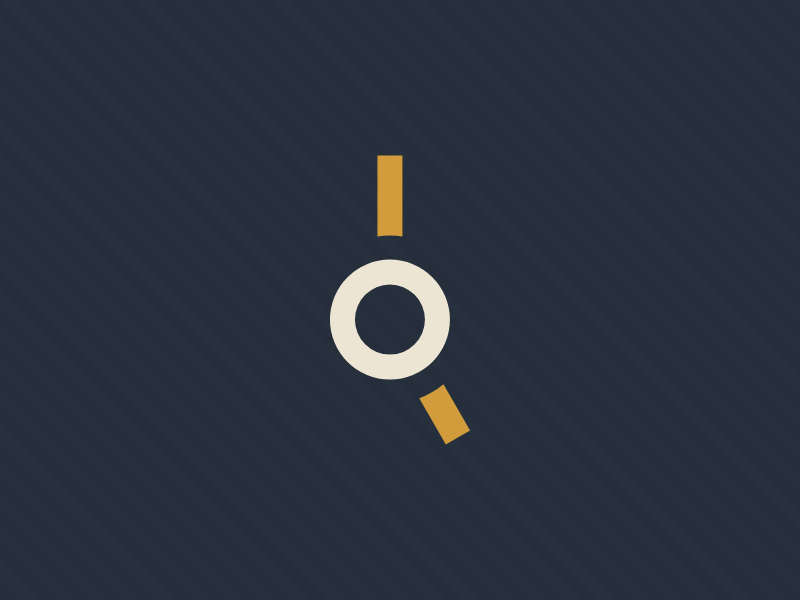
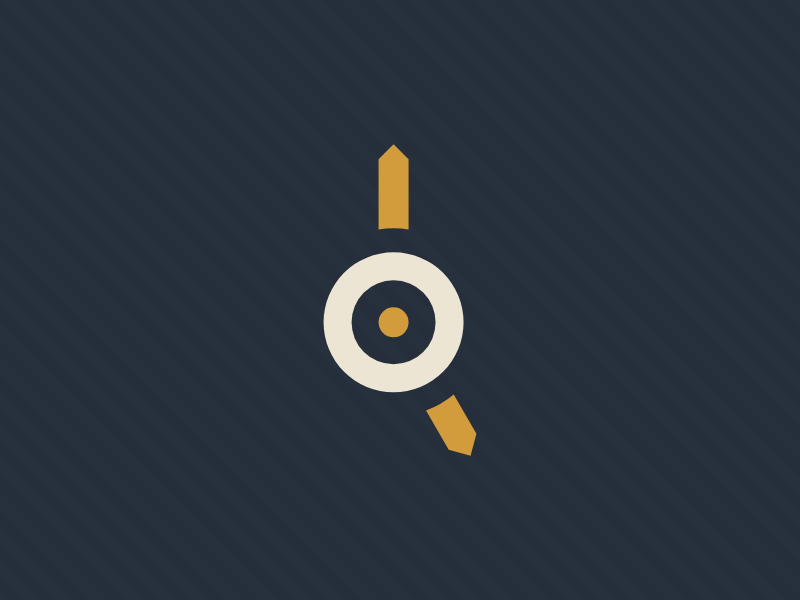
The O: side-of-hat master gets a pivot dot and pointed 1.5 mm hands
The earlier side master (no dot, square bars) read cold as a broken
magnifying glass. A 7.0 mm ring makes room for a 1.5 mm dot with
1.35 mm of fabric around it.

Claude-Session: https://claude.ai/code/session_01DEMsE9viXMfy2PBdc6fmky

Changed region(s): [[0.4062, 0.24, 0.5938, 0.78]]

diff --git a/designs/mark/final/the-o/notes.md b/designs/mark/final/the-o/notes.md
@@ -14,7 +14,7 @@ All generated by `build.cjs` (run `node build.cjs`). Never edit the SVGs by hand
 | `logo-dark.svg` | Main lockup for dark fabric: Bone letters and O, Sun hands and dot |
 | `logo-one-colour-ink.svg`, `logo-one-colour-bone.svg` | One thread only, wider channel (1.5 mm) |
 | `symbol-*.svg` | The clock O alone, 25 mm tall (patches, hat back, avatar) |
-| `side-light.svg`, `side-dark.svg` | Side-of-hat master, 7.0 x 14.4 mm, its own drawing |
+| `side-light.svg`, `side-dark.svg` | Side-of-hat master, its own drawing (7.0 mm ring with a pivot dot) |
 | `logo-light-cap6/7/7.5.svg` | Size proofs at true size |
 | `symbol-light-18/25/40mm.svg` | Symbol proofs at true size |
 | `fonts/` | The same logo in ten other wide, blocky typefaces for comparison |
@@ -47,7 +47,7 @@ Thread: the hex values are targets. Match each to the nearest colour on a physic
 - Lockup, two colours: cap 6 mm or more (about 62 mm wide). Use cap 7 (about 72 mm wide) on hat fronts.
 - Pivot dot: leave it out below cap 6 (two colours) or cap 6.5 (one colour).
 - Symbol: 18 mm tall or more. Proof the front symbol at 40 mm, not 50.
-- Side of hat: use `side-*.svg` (14.4 mm tall). Do not scale the main files down.
+- Side of hat: use `side-*.svg` (about 16 mm tall, 7.0 mm ring, 1.5 mm pivot dot, pointed hands 1.5 and 1.6 mm wide). Do not scale the main files down.
 - Below cap 6 (sign-offs, straps): set OFF SHFT in plain Archivo Expanded Bold with the font's own O, letter-spacing 0.14 em.
 
 ## Notes for the digitizer
